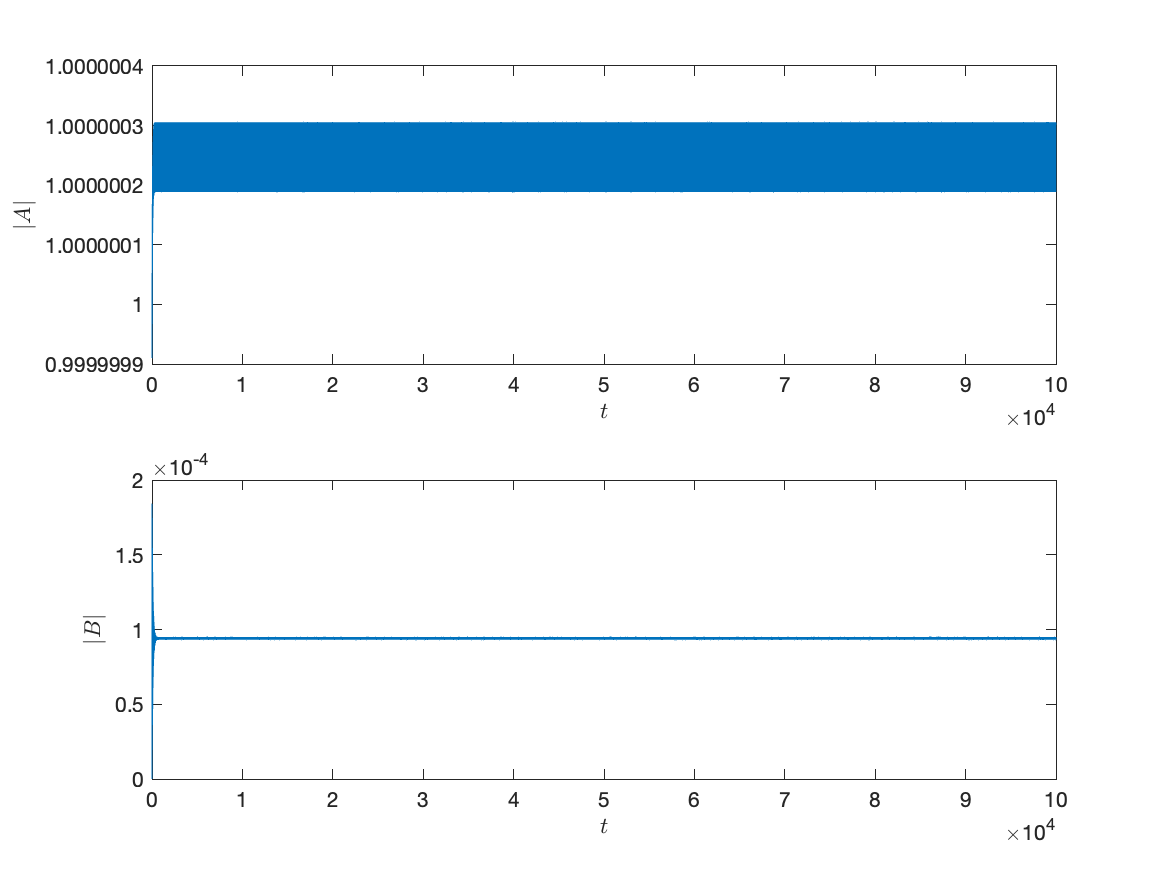
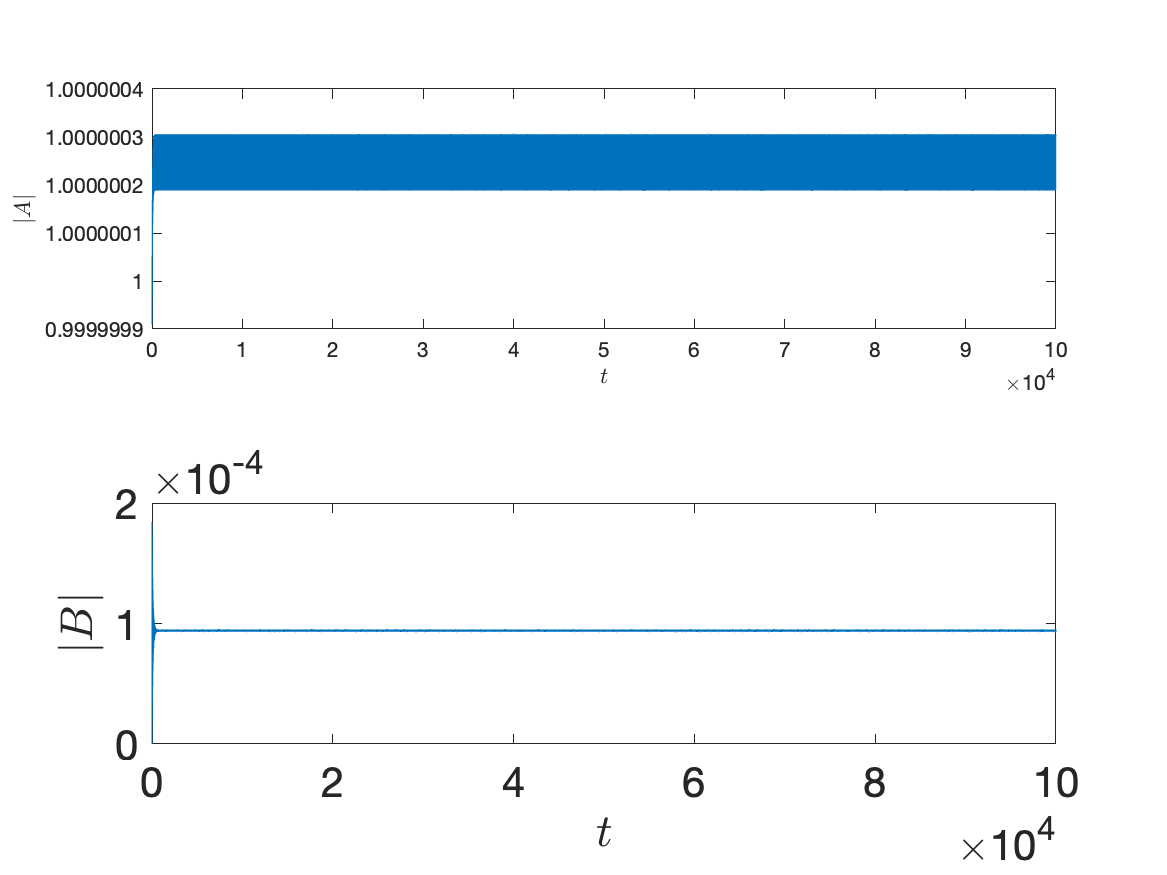
Font size changed

diff --git a/Dynamics on invariant set/Periodic_vs_QuasiPeriodic.m b/Dynamics on invariant set/Periodic_vs_QuasiPeriodic.m
@@ -19,11 +19,12 @@ Xinit = [1,0];
 
 figure;
 plot(angle(exp(1i*t)),angle(x(:,1).*exp(-1i*omegaA*eps^2*t)),'.');
-xlabel("$\theta$","FontSize",16,"Interpreter","latex");
-ylabel("$\phi_A$","FontSize",16,"Interpreter","latex");
-title("$\varepsilon = 0.1$","FontSize",16,"Interpreter","latex");
+xlabel("$\theta$","FontSize",28,"Interpreter","latex");
+ylabel("$\phi_A$","FontSize",28,"Interpreter","latex");
+title("$\varepsilon = 0.1$","FontSize",28,"Interpreter","latex");
 ylim([-pi,pi]);
 xlim([-pi,pi]);
+set(gca,'FontSize',20)
 saveas(gcf,'periodic.png')
 
 figure;
@@ -35,6 +36,7 @@ subplot(2,1,2);
 plot(t,abs(x(:,2)));
 xlabel("$t$","Interpreter","latex");
 ylabel("$|B|$","Interpreter","latex");
+set(gca,'FontSize',20)
 saveas(gcf,'amplitudes-eps01.png');
 
 
@@ -53,11 +55,12 @@ Xinit = [1,0];
 
 figure;
 plot(angle(exp(1i*t)),angle(x(:,1).*exp(-1i*omegaA*eps^2*t)),'.');
-xlabel("$\theta$","FontSize",16,"Interpreter","latex");
-ylabel("$\phi_A$","FontSize",16,"Interpreter","latex");
-title("$\varepsilon = 0.09$","FontSize",16,"Interpreter","latex");
+xlabel("$\theta$","FontSize",28,"Interpreter","latex");
+ylabel("$\phi_A$","FontSize",28,"Interpreter","latex");
+title("$\varepsilon = 0.09$","FontSize",28,"Interpreter","latex");
 ylim([-pi,pi]);
 xlim([-pi,pi]);
+set(gca,'FontSize',20)
 saveas(gcf,"quasiperiodic.png");
 
 figure;
@@ -69,4 +72,5 @@ subplot(2,1,2);
 plot(t,abs(x(:,2)));
 xlabel("$t$","Interpreter","latex");
 ylabel("$|B|$","Interpreter","latex");
+set(gca,'FontSize',20)
 saveas(gcf,'amplitudes-eps009.png');
